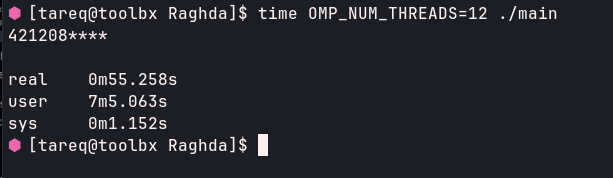
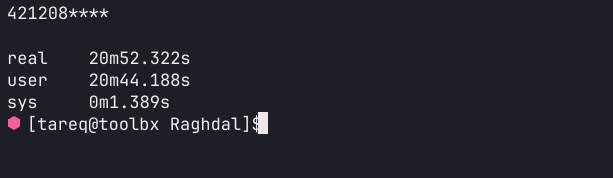
fixed wrong image

diff --git a/src/app/components/BlogSection.tsx b/src/app/components/BlogSection.tsx
@@ -1,6 +1,6 @@
 import { useEffect, useState } from 'react';
 import { AnimatePresence, motion } from 'motion/react';
-import { ArrowUpRight, Clock3, X } from 'lucide-react';
+import { ArrowUpRight, Clock3, Github, X } from 'lucide-react';
 import { trackPageView } from '../lib/goatCounter';
 
 type Post = {
@@ -13,6 +13,7 @@ type Post = {
   readTime: string;
   accent: string;
   stack: string[];
+  repository?: string;
   sections: Array<{
     heading: string;
     body: string | string[];
@@ -40,6 +41,7 @@ const posts: Post[] = [
     readTime: '4 min read',
     accent: 'bg-[#ff6b9f]',
     stack: ['C++', 'OpenMP', 'Graph algorithms'],
+    repository: 'https://github.com/tareqarnaout/maximal-clique-enumeration',
     sections: [
       {
         heading: 'The problem',
@@ -105,14 +107,14 @@ const posts: Post[] = [
         body: 'In one test case, the parallel implementation reduced the runtime by roughly 20× compared with the sequential version.',
         figures: [
           {
+            src: articleAsset('sequential-runtime.png'),
+            alt: 'Terminal output showing the sequential algorithm runtime',
+            caption: 'Sequential runtime.',
+          },
+          {
             src: articleAsset('parallel-runtime.png'),
             alt: 'Terminal output showing the parallel algorithm runtime',
             caption: 'Parallel runtime.',
-          },
-          {
-            src: articleAsset('sequential-runtime.png'),
-            alt: 'Terminal output showing the non-parallel algorithm runtime',
-            caption: 'Sequential runtime.',
           },
         ],
       },
@@ -187,7 +189,14 @@ export default function BlogSection() {
               </div>
               <h2 id="blog-post-title" className="mt-8 max-w-4xl text-5xl font-black leading-[0.95] tracking-tighter sm:text-6xl md:text-8xl">{activePost.title}</h2>
               <p className="mt-8 max-w-3xl text-xl leading-relaxed text-black/55 md:text-2xl">{activePost.excerpt}</p>
-              <div className="mt-10 flex flex-wrap gap-2">{activePost.stack.map((item) => <span key={item} className="border border-black/15 px-3 py-1.5 text-[10px] font-black uppercase tracking-widest">{item}</span>)}</div>
+              <div className="mt-10 flex flex-wrap items-center gap-2">
+                {activePost.stack.map((item) => <span key={item} className="border border-black/15 px-3 py-1.5 text-[10px] font-black uppercase tracking-widest">{item}</span>)}
+                {activePost.repository && (
+                  <a href={activePost.repository} target="_blank" rel="noreferrer" className="inline-flex items-center gap-2 bg-black px-3 py-2 text-[10px] font-black uppercase tracking-widest text-white transition-colors hover:bg-black/75">
+                    <Github size={14} aria-hidden="true" /> View code <ArrowUpRight size={13} aria-hidden="true" />
+                  </a>
+                )}
+              </div>
               <div className="mt-20 border-t border-black/15">
                 {activePost.sections.map((section, index) => (
                   <section key={section.heading} className="grid gap-5 border-b border-black/15 py-10 md:grid-cols-[160px_1fr] md:gap-12 md:py-14">
